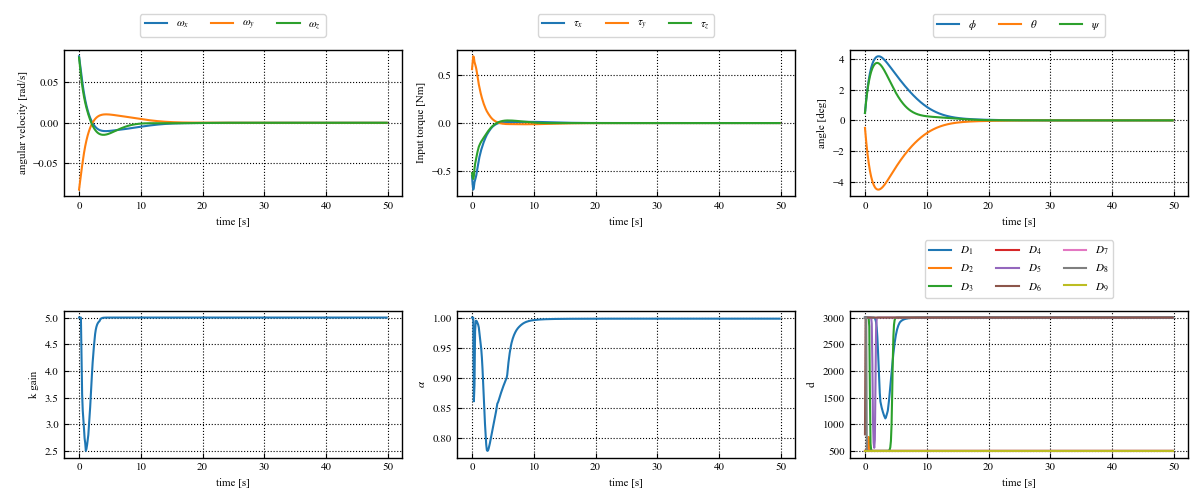
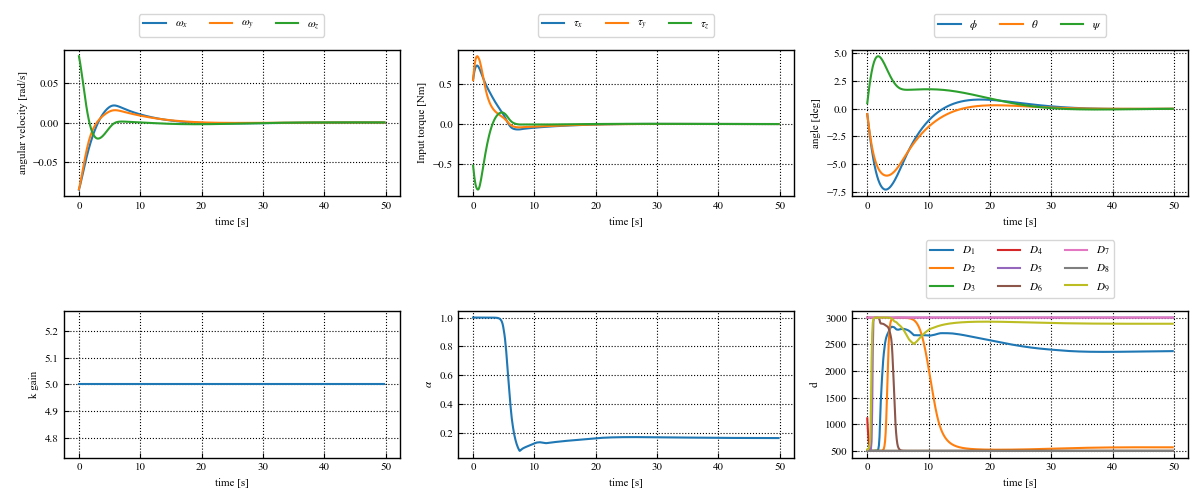
UPDATE: change reward

diff --git a/td3/environment.py b/td3/environment.py
@@ -145,8 +145,8 @@ class SatelliteContinuousEnv(gym.Env):
         self.omega_count = 0
         
         #報酬パラメータ
-        self.q_weight =  1*5#1*20
-        self.w_weight = 1.5*10#1.5*100
+        self.q_weight =  1*6*20
+        self.w_weight = 1.5*8#1.5*100
         self.action_weight = 0.25*2#0.25*10
         
         # 初期状態 角度(deg)　角速度(rad/s)
@@ -189,7 +189,7 @@ class SatelliteContinuousEnv(gym.Env):
 
         # Angle, angle speed and speed at which to fail the episode
         self.maxOmega = 5
-        self.angle_thre = 0.999962
+        self.angle_thre = 0.9999962
         self.max_torque = 1
 
         self.max_action = 1
@@ -292,12 +292,12 @@ class SatelliteContinuousEnv(gym.Env):
         elif self.steps_beyond_done is None:
             # epsiode just ended
             self.steps_beyond_done = 0
-            # if bool(done_1):
-            #     reward = -30
-            # else:
-            #     if qe_new[0] >= self.angle_thre:
-            #         reward = 30
-            #     else:
+            if bool(done_1):
+                reward = -30
+            else:
+                if qe_new[0] >= self.angle_thre:
+                    reward = 30
+                else:
             reward = 0
         #------------------------
 

diff --git a/td3/utils.py b/td3/utils.py
@@ -51,7 +51,7 @@ def mini_batch_train(env, agent, max_episodes, max_steps, batch_size):
 def mini_batch_train_adaptive(env, agent, max_episodes, max_steps, batch_size):
     episode_rewards = []
     counter = 0
-    k_max = 5
+    k_max = 10
     alpha_max = 1
     d_grad = 2500
     try:
